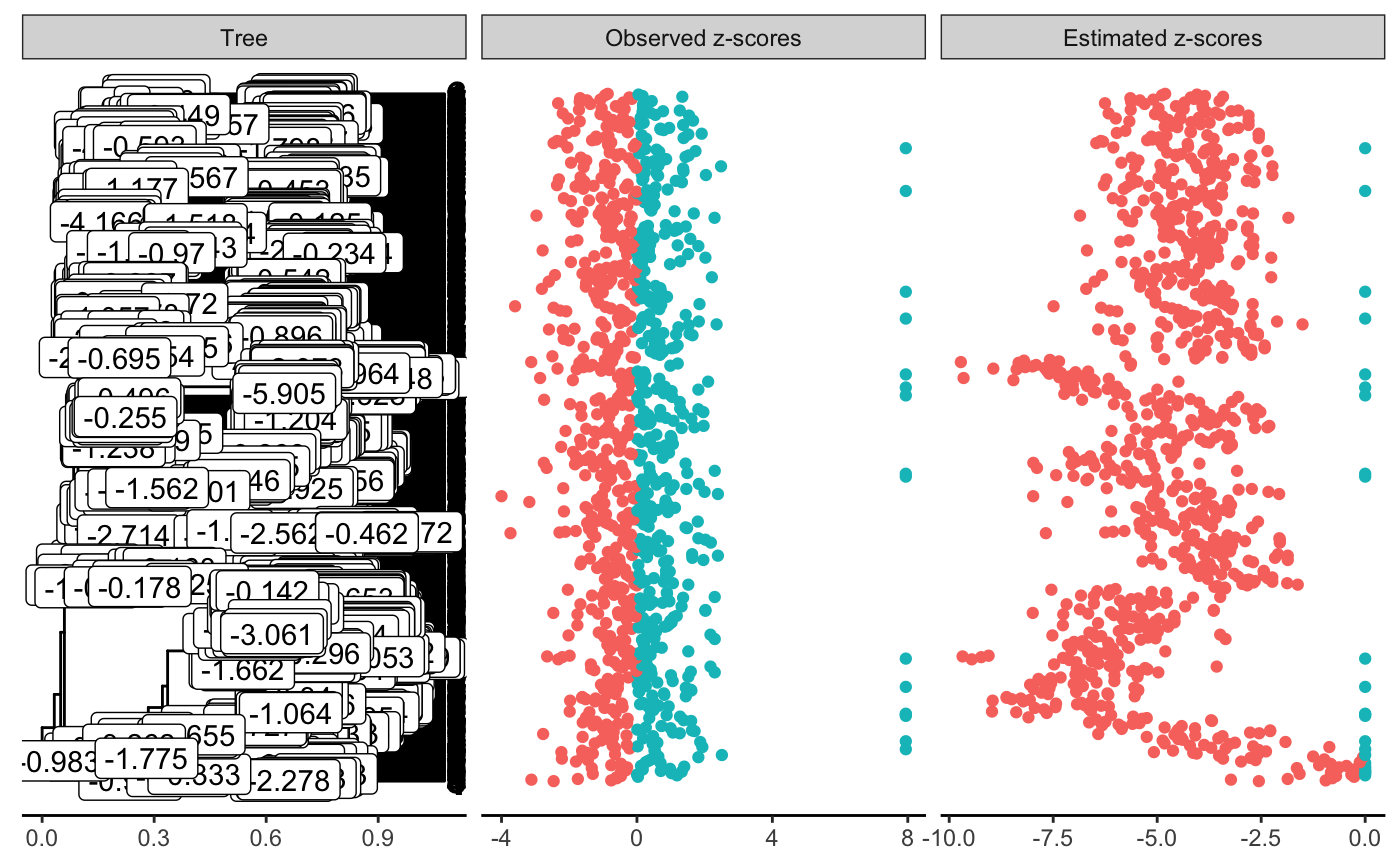
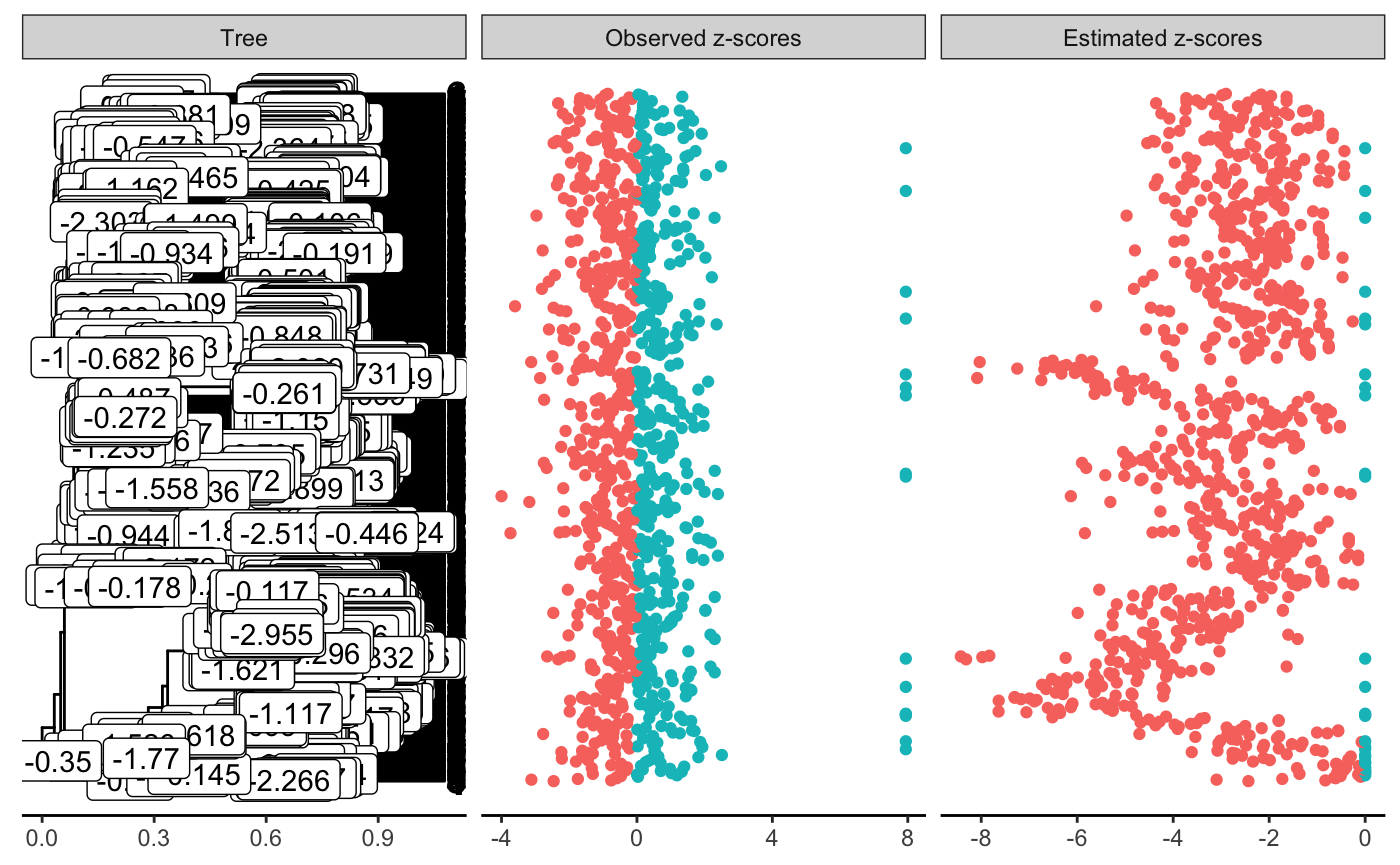
Same alpha in the vignette

diff --git a/inst/docs/articles/alcohol.html b/inst/docs/articles/alcohol.html
@@ -131,7 +131,7 @@
 <a class="sourceLine" id="cb6-3" data-line-number="3">                               <span class="dt">lambda =</span> <span class="fl">0.1</span>, <span class="dt">tree =</span> tree, <span class="dt">alpha =</span> <span class="dv">1</span>,</a>
 <a class="sourceLine" id="cb6-4" data-line-number="4">                               <span class="dt">method =</span> <span class="st">"L-BFGS-B"</span>)</a>
 <a class="sourceLine" id="cb6-5" data-line-number="5"><span class="kw"><a href="https://rdrr.io/pkg/tictoc/man/tic.html">toc</a></span>()</a>
-<a class="sourceLine" id="cb6-6" data-line-number="6"><span class="co">#&gt; 206.677 sec elapsed</span></a>
+<a class="sourceLine" id="cb6-6" data-line-number="6"><span class="co">#&gt; 196.052 sec elapsed</span></a>
 <a class="sourceLine" id="cb6-7" data-line-number="7">est_lbfgsb</a>
 <a class="sourceLine" id="cb6-8" data-line-number="8"><span class="co">#&gt; Tree is not binary with 949 leafs and 1890 branches</span></a>
 <a class="sourceLine" id="cb6-9" data-line-number="9"><span class="co">#&gt; Covariance matrix has been estimated from an OU with alpha = 1 and sigma = 1.6 </span></a>
@@ -157,59 +157,59 @@
 <div class="sourceCode" id="cb7"><pre class="sourceCode r"><code class="sourceCode r"><a class="sourceLine" id="cb7-1" data-line-number="1"><span class="kw"><a href="https://rdrr.io/r/base/Random.html">set.seed</a></span>(<span class="dv">42</span>)</a>
 <a class="sourceLine" id="cb7-2" data-line-number="2"><span class="kw"><a href="https://rdrr.io/pkg/tictoc/man/tic.html">tic</a></span>()</a>
 <a class="sourceLine" id="cb7-3" data-line-number="3">est_shooting01 &lt;-<span class="st"> </span><span class="kw"><a href="../reference/estimate_shifts.html">estimate_shifts2</a></span>(<span class="dt">Delta0 =</span> <span class="kw"><a href="https://rdrr.io/r/base/rep.html">rep</a></span>(<span class="dv">0</span>, N_branch), <span class="dt">zscores =</span> zsco_obs,</a>
-<a class="sourceLine" id="cb7-4" data-line-number="4">                                   <span class="dt">lambda =</span> <span class="fl">0.1</span>, <span class="dt">tree =</span> tree, <span class="dt">alpha =</span> <span class="fl">0.1</span>,</a>
+<a class="sourceLine" id="cb7-4" data-line-number="4">                                   <span class="dt">lambda =</span> <span class="fl">0.1</span>, <span class="dt">tree =</span> tree, <span class="dt">alpha =</span> <span class="dv">1</span>,</a>
 <a class="sourceLine" id="cb7-5" data-line-number="5">                                   <span class="dt">method =</span> <span class="st">"shooting2"</span>)</a>
 <a class="sourceLine" id="cb7-6" data-line-number="6"><span class="kw"><a href="https://rdrr.io/pkg/tictoc/man/tic.html">toc</a></span>()</a>
-<a class="sourceLine" id="cb7-7" data-line-number="7"><span class="co">#&gt; 2.461 sec elapsed</span></a>
+<a class="sourceLine" id="cb7-7" data-line-number="7"><span class="co">#&gt; 2.156 sec elapsed</span></a>
 <a class="sourceLine" id="cb7-8" data-line-number="8">est_shooting01</a>
 <a class="sourceLine" id="cb7-9" data-line-number="9"><span class="co">#&gt; Tree is not binary with 949 leafs and 1890 branches</span></a>
-<a class="sourceLine" id="cb7-10" data-line-number="10"><span class="co">#&gt; Covariance matrix has been estimated from an OU with alpha = 0.1 and sigma = 2.307 </span></a>
+<a class="sourceLine" id="cb7-10" data-line-number="10"><span class="co">#&gt; Covariance matrix has been estimated from an OU with alpha = 1 and sigma = 1.6 </span></a>
 <a class="sourceLine" id="cb7-11" data-line-number="11"><span class="co">#&gt; ---</span></a>
 <a class="sourceLine" id="cb7-12" data-line-number="12"><span class="co">#&gt; Optimisation algorithm: shooting</span></a>
 <a class="sourceLine" id="cb7-13" data-line-number="13"><span class="co">#&gt; Regularization parameter: lambda = 0.1 </span></a>
-<a class="sourceLine" id="cb7-14" data-line-number="14"><span class="co">#&gt; Objective value: 3484.496.</span></a>
+<a class="sourceLine" id="cb7-14" data-line-number="14"><span class="co">#&gt; Objective value: 2534.079.</span></a>
 <a class="sourceLine" id="cb7-15" data-line-number="15"><span class="co">#&gt; ---</span></a>
 <a class="sourceLine" id="cb7-16" data-line-number="16"><span class="co">#&gt; Estimated shifts: 0 0 0 0 0 0 0 0 0 0 ...</span></a>
-<a class="sourceLine" id="cb7-17" data-line-number="17"><span class="co">#&gt; 83 shifts have been identified (ie 95.6 % of sparsity)</span></a>
+<a class="sourceLine" id="cb7-17" data-line-number="17"><span class="co">#&gt; 84 shifts have been identified (ie 95.6 % of sparsity)</span></a>
 <a class="sourceLine" id="cb7-18" data-line-number="18"><span class="co">#&gt; A parsimonious solution on the binarized tree would have involve 31 shifts</span></a>
 <a class="sourceLine" id="cb7-19" data-line-number="19"><span class="co">#&gt; ---</span></a>
 <a class="sourceLine" id="cb7-20" data-line-number="20"><span class="co">#&gt; Observed z-scores:  -1.947 -2.059 -1.713 -0.364 -2.328  0.437 -0.153 -0.225   1.34 -1.678 ...</span></a>
-<a class="sourceLine" id="cb7-21" data-line-number="21"><span class="co">#&gt; Estimated z-scores:      0      0 -0.121 -0.121 -0.121 -0.121 -0.121 -0.121 -0.121 -0.121 ...</span></a>
-<a class="sourceLine" id="cb7-22" data-line-number="22"><span class="co">#&gt; 540 z-scores have been shifted (ie 43.1 % of sparsity)</span></a>
+<a class="sourceLine" id="cb7-21" data-line-number="21"><span class="co">#&gt; Estimated z-scores: -0.025 -0.025 -0.174 -0.174 -0.174 -0.174 -0.174 -0.174 -0.174 -0.174 ...</span></a>
+<a class="sourceLine" id="cb7-22" data-line-number="22"><span class="co">#&gt; 673 z-scores have been shifted (ie 29.1 % of sparsity)</span></a>
 <a class="sourceLine" id="cb7-23" data-line-number="23"><span class="kw"><a href="https://rdrr.io/r/graphics/plot.html">plot</a></span>(est_shooting01)</a>
-<a class="sourceLine" id="cb7-24" data-line-number="24"><span class="co">#&gt; Warning: Removed 1808 rows containing missing values (geom_label).</span></a></code></pre></div>
+<a class="sourceLine" id="cb7-24" data-line-number="24"><span class="co">#&gt; Warning: Removed 1807 rows containing missing values (geom_label).</span></a></code></pre></div>
 <p><img src="alcohol_files/figure-html/shooting01-1.png" width="700" style="display: block; margin: auto;"></p>
 <div class="sourceCode" id="cb8"><pre class="sourceCode r"><code class="sourceCode r"><a class="sourceLine" id="cb8-1" data-line-number="1"><span class="kw"><a href="https://rdrr.io/r/base/Random.html">set.seed</a></span>(<span class="dv">42</span>)</a>
 <a class="sourceLine" id="cb8-2" data-line-number="2"><span class="kw"><a href="https://rdrr.io/pkg/tictoc/man/tic.html">tic</a></span>()</a>
 <a class="sourceLine" id="cb8-3" data-line-number="3">est_shooting03 &lt;-<span class="st"> </span><span class="kw"><a href="../reference/estimate_shifts.html">estimate_shifts2</a></span>(<span class="dt">Delta0 =</span> <span class="kw"><a href="https://rdrr.io/r/base/rep.html">rep</a></span>(<span class="dv">0</span>, N_branch), <span class="dt">zscores =</span> zsco_obs,</a>
-<a class="sourceLine" id="cb8-4" data-line-number="4">                                   <span class="dt">lambda =</span> <span class="fl">0.1</span>, <span class="dt">tree =</span> tree, <span class="dt">alpha =</span> <span class="fl">0.1</span>,</a>
+<a class="sourceLine" id="cb8-4" data-line-number="4">                                   <span class="dt">lambda =</span> <span class="fl">0.1</span>, <span class="dt">tree =</span> tree, <span class="dt">alpha =</span> <span class="dv">1</span>,</a>
 <a class="sourceLine" id="cb8-5" data-line-number="5">                                   <span class="dt">method =</span> <span class="st">"shooting3"</span>)</a>
 <a class="sourceLine" id="cb8-6" data-line-number="6"><span class="kw"><a href="https://rdrr.io/pkg/tictoc/man/tic.html">toc</a></span>()</a>
-<a class="sourceLine" id="cb8-7" data-line-number="7"><span class="co">#&gt; 46.238 sec elapsed</span></a>
+<a class="sourceLine" id="cb8-7" data-line-number="7"><span class="co">#&gt; 19.237 sec elapsed</span></a>
 <a class="sourceLine" id="cb8-8" data-line-number="8">est_shooting03</a>
 <a class="sourceLine" id="cb8-9" data-line-number="9"><span class="co">#&gt; Tree is not binary with 949 leafs and 1890 branches</span></a>
-<a class="sourceLine" id="cb8-10" data-line-number="10"><span class="co">#&gt; Covariance matrix has been estimated from an OU with alpha = 0.1 and sigma = 2.307 </span></a>
+<a class="sourceLine" id="cb8-10" data-line-number="10"><span class="co">#&gt; Covariance matrix has been estimated from an OU with alpha = 1 and sigma = 1.6 </span></a>
 <a class="sourceLine" id="cb8-11" data-line-number="11"><span class="co">#&gt; ---</span></a>
 <a class="sourceLine" id="cb8-12" data-line-number="12"><span class="co">#&gt; Optimisation algorithm: shooting</span></a>
 <a class="sourceLine" id="cb8-13" data-line-number="13"><span class="co">#&gt; Regularization parameter: lambda = 0.1 </span></a>
-<a class="sourceLine" id="cb8-14" data-line-number="14"><span class="co">#&gt; Objective value: 558.844.</span></a>
+<a class="sourceLine" id="cb8-14" data-line-number="14"><span class="co">#&gt; Objective value: 743.169.</span></a>
 <a class="sourceLine" id="cb8-15" data-line-number="15"><span class="co">#&gt; ---</span></a>
-<a class="sourceLine" id="cb8-16" data-line-number="16"><span class="co">#&gt; Estimated shifts: 0 0 0 0 -0.823 0 0 0 -0.276 -0.421 ...</span></a>
-<a class="sourceLine" id="cb8-17" data-line-number="17"><span class="co">#&gt; 868 shifts have been identified (ie 54.1 % of sparsity)</span></a>
+<a class="sourceLine" id="cb8-16" data-line-number="16"><span class="co">#&gt; Estimated shifts: 0 0 0 0 -0.582 0 0 0 -0.038 -0.407 ...</span></a>
+<a class="sourceLine" id="cb8-17" data-line-number="17"><span class="co">#&gt; 851 shifts have been identified (ie 55 % of sparsity)</span></a>
 <a class="sourceLine" id="cb8-18" data-line-number="18"><span class="co">#&gt; A parsimonious solution on the binarized tree would have involve 31 shifts</span></a>
 <a class="sourceLine" id="cb8-19" data-line-number="19"><span class="co">#&gt; ---</span></a>
 <a class="sourceLine" id="cb8-20" data-line-number="20"><span class="co">#&gt; Observed z-scores:  -1.947 -2.059 -1.713 -0.364 -2.328  0.437 -0.153 -0.225   1.34 -1.678 ...</span></a>
-<a class="sourceLine" id="cb8-21" data-line-number="21"><span class="co">#&gt; Estimated z-scores: -5.861 -5.971 -5.637 -4.363 -6.255 -3.501 -4.113 -4.191 -3.417 -5.644 ...</span></a>
-<a class="sourceLine" id="cb8-22" data-line-number="22"><span class="co">#&gt; 925 z-scores have been shifted (ie 2.5 % of sparsity)</span></a>
+<a class="sourceLine" id="cb8-21" data-line-number="21"><span class="co">#&gt; Estimated z-scores: -3.966 -4.081  -3.74  -2.48 -4.356 -1.637 -2.198 -2.275 -1.637 -3.727 ...</span></a>
+<a class="sourceLine" id="cb8-22" data-line-number="22"><span class="co">#&gt; 920 z-scores have been shifted (ie 3.1 % of sparsity)</span></a>
 <a class="sourceLine" id="cb8-23" data-line-number="23"><span class="kw"><a href="https://rdrr.io/r/graphics/plot.html">plot</a></span>(est_shooting03)</a>
-<a class="sourceLine" id="cb8-24" data-line-number="24"><span class="co">#&gt; Warning: Removed 1023 rows containing missing values (geom_label).</span></a></code></pre></div>
+<a class="sourceLine" id="cb8-24" data-line-number="24"><span class="co">#&gt; Warning: Removed 1040 rows containing missing values (geom_label).</span></a></code></pre></div>
 <p><img src="alcohol_files/figure-html/shooting03-1.png" width="700" style="display: block; margin: auto;"></p>
 <div class="sourceCode" id="cb9"><pre class="sourceCode r"><code class="sourceCode r"><a class="sourceLine" id="cb9-1" data-line-number="1">est_lbfgsb<span class="op">$</span>objective_value</a>
 <a class="sourceLine" id="cb9-2" data-line-number="2"><span class="co">#&gt; [1] 757.5406</span></a>
 <a class="sourceLine" id="cb9-3" data-line-number="3">est_shooting01<span class="op">$</span>objective_value</a>
-<a class="sourceLine" id="cb9-4" data-line-number="4"><span class="co">#&gt; [1] 3484.496</span></a>
+<a class="sourceLine" id="cb9-4" data-line-number="4"><span class="co">#&gt; [1] 2534.079</span></a>
 <a class="sourceLine" id="cb9-5" data-line-number="5">est_shooting03<span class="op">$</span>objective_value</a>
-<a class="sourceLine" id="cb9-6" data-line-number="6"><span class="co">#&gt; [1] 558.8437</span></a>
+<a class="sourceLine" id="cb9-6" data-line-number="6"><span class="co">#&gt; [1] 743.1689</span></a>
 <a class="sourceLine" id="cb9-7" data-line-number="7">est_lbfgsb<span class="op">$</span>optim_info</a>
 <a class="sourceLine" id="cb9-8" data-line-number="8"><span class="co">#&gt; $counts</span></a>
 <a class="sourceLine" id="cb9-9" data-line-number="9"><span class="co">#&gt; function gradient </span></a>
@@ -225,10 +225,10 @@
 <a class="sourceLine" id="cb9-19" data-line-number="19"><span class="co">#&gt; [1] 200</span></a>
 <a class="sourceLine" id="cb9-20" data-line-number="20">est_shooting03<span class="op">$</span>optim_info</a>
 <a class="sourceLine" id="cb9-21" data-line-number="21"><span class="co">#&gt; $iterations</span></a>
-<a class="sourceLine" id="cb9-22" data-line-number="22"><span class="co">#&gt; [1] 655842</span></a>
+<a class="sourceLine" id="cb9-22" data-line-number="22"><span class="co">#&gt; [1] 265430</span></a>
 <a class="sourceLine" id="cb9-23" data-line-number="23"><span class="co">#&gt; </span></a>
 <a class="sourceLine" id="cb9-24" data-line-number="24"><span class="co">#&gt; $last_progress</span></a>
-<a class="sourceLine" id="cb9-25" data-line-number="25"><span class="co">#&gt; [1] 7.52247e-09</span></a></code></pre></div>
+<a class="sourceLine" id="cb9-25" data-line-number="25"><span class="co">#&gt; [1] 5.131481e-09</span></a></code></pre></div>
 </div>
 </div>
   </div>
